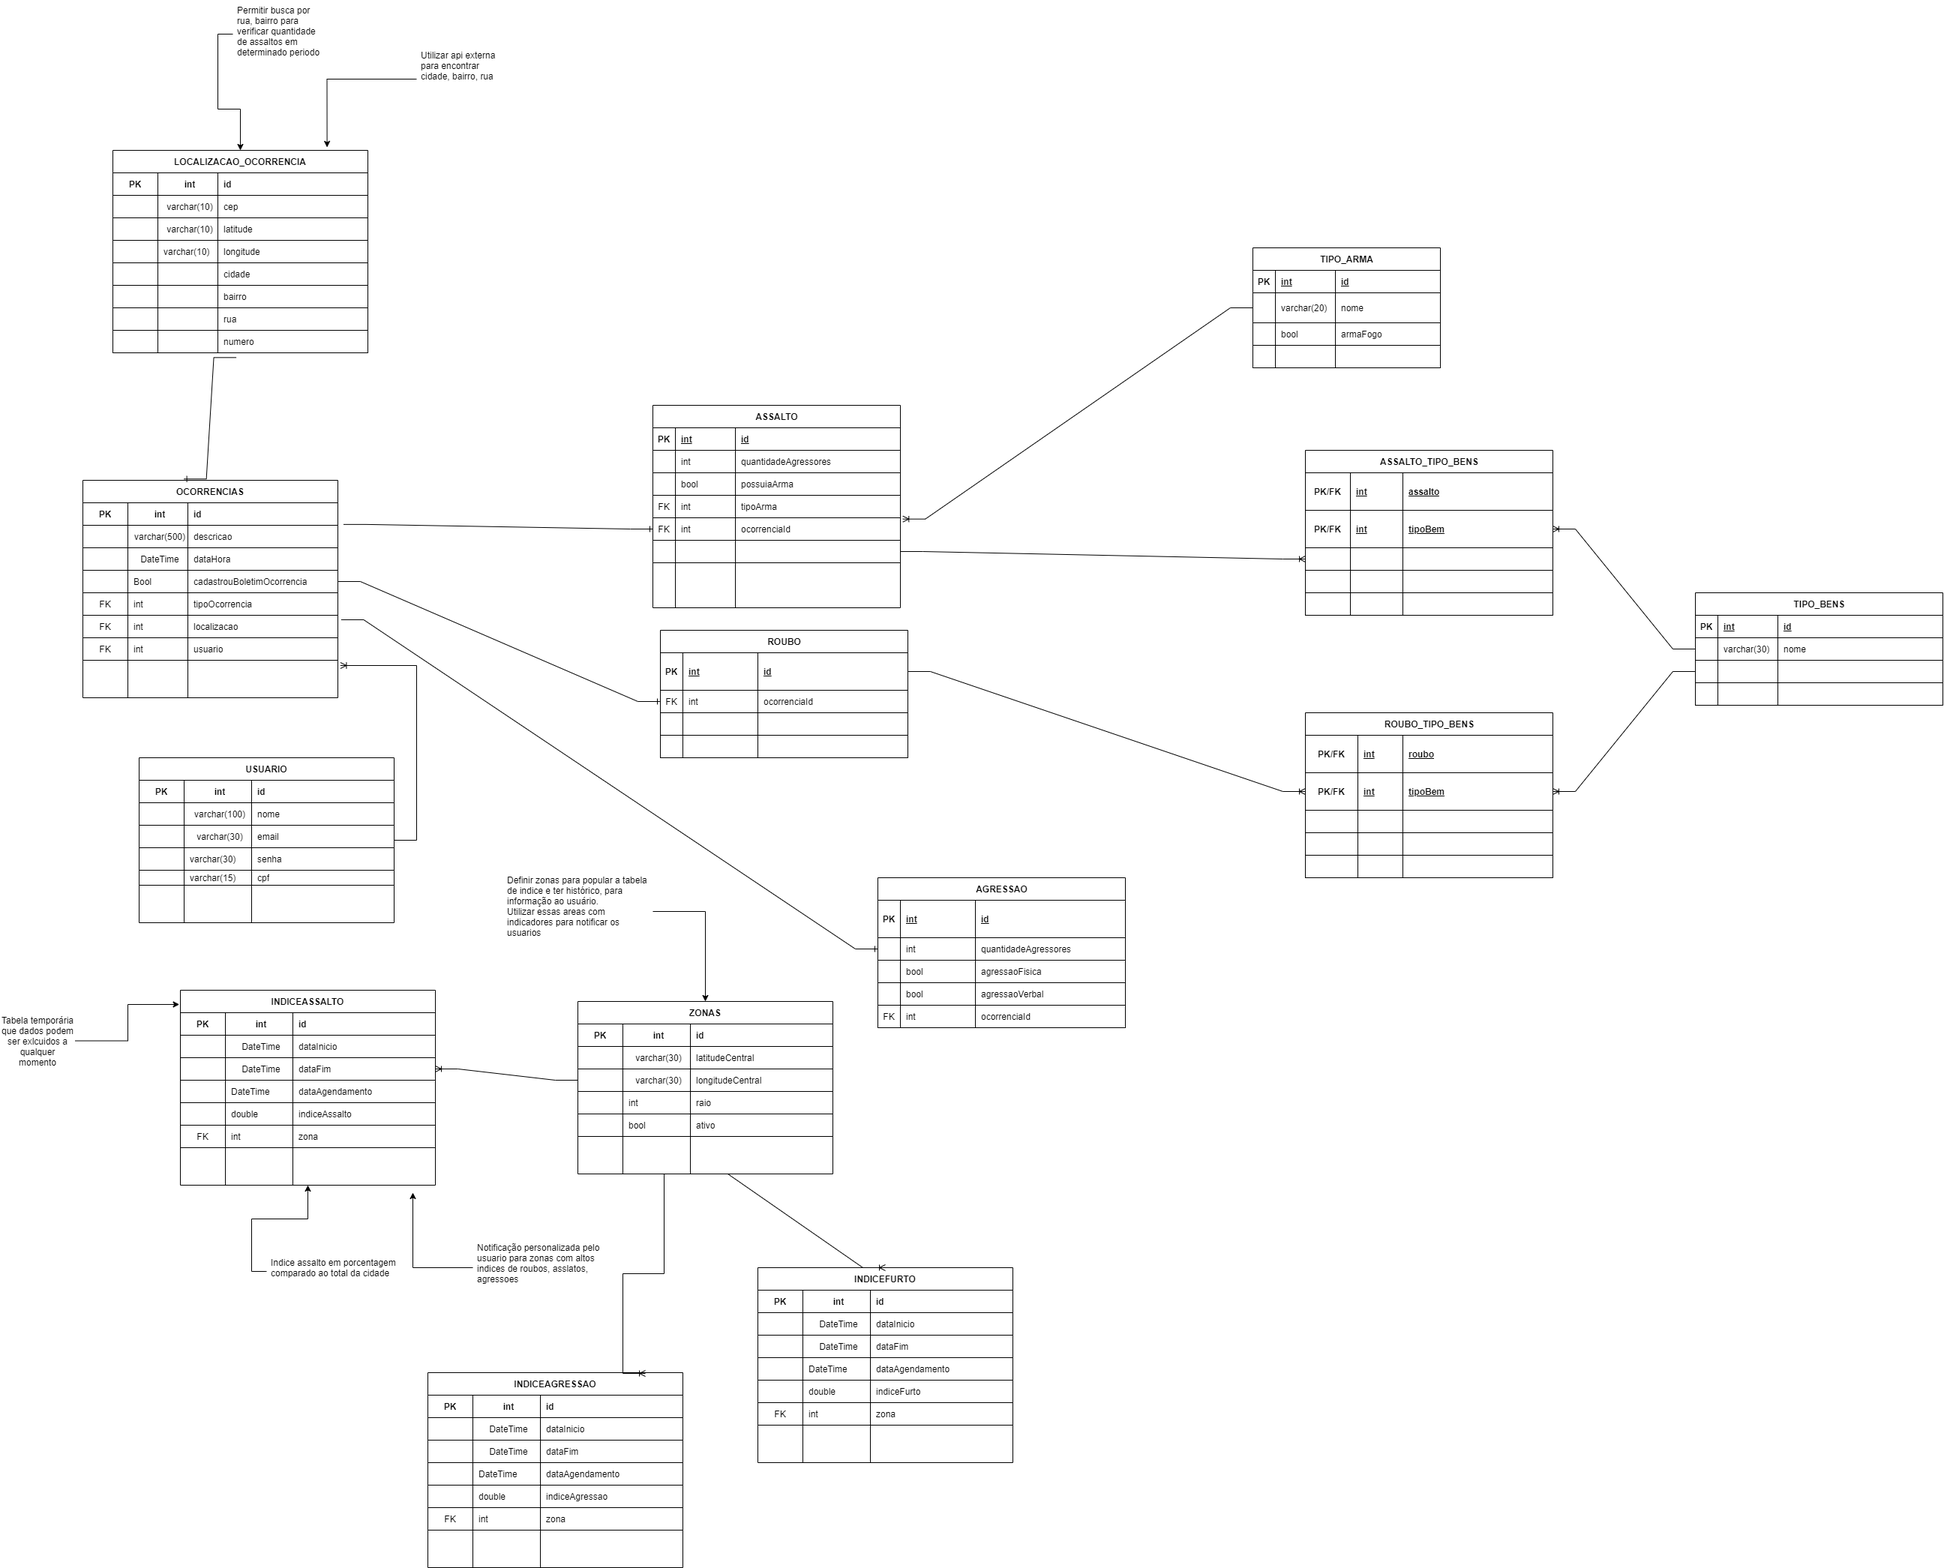
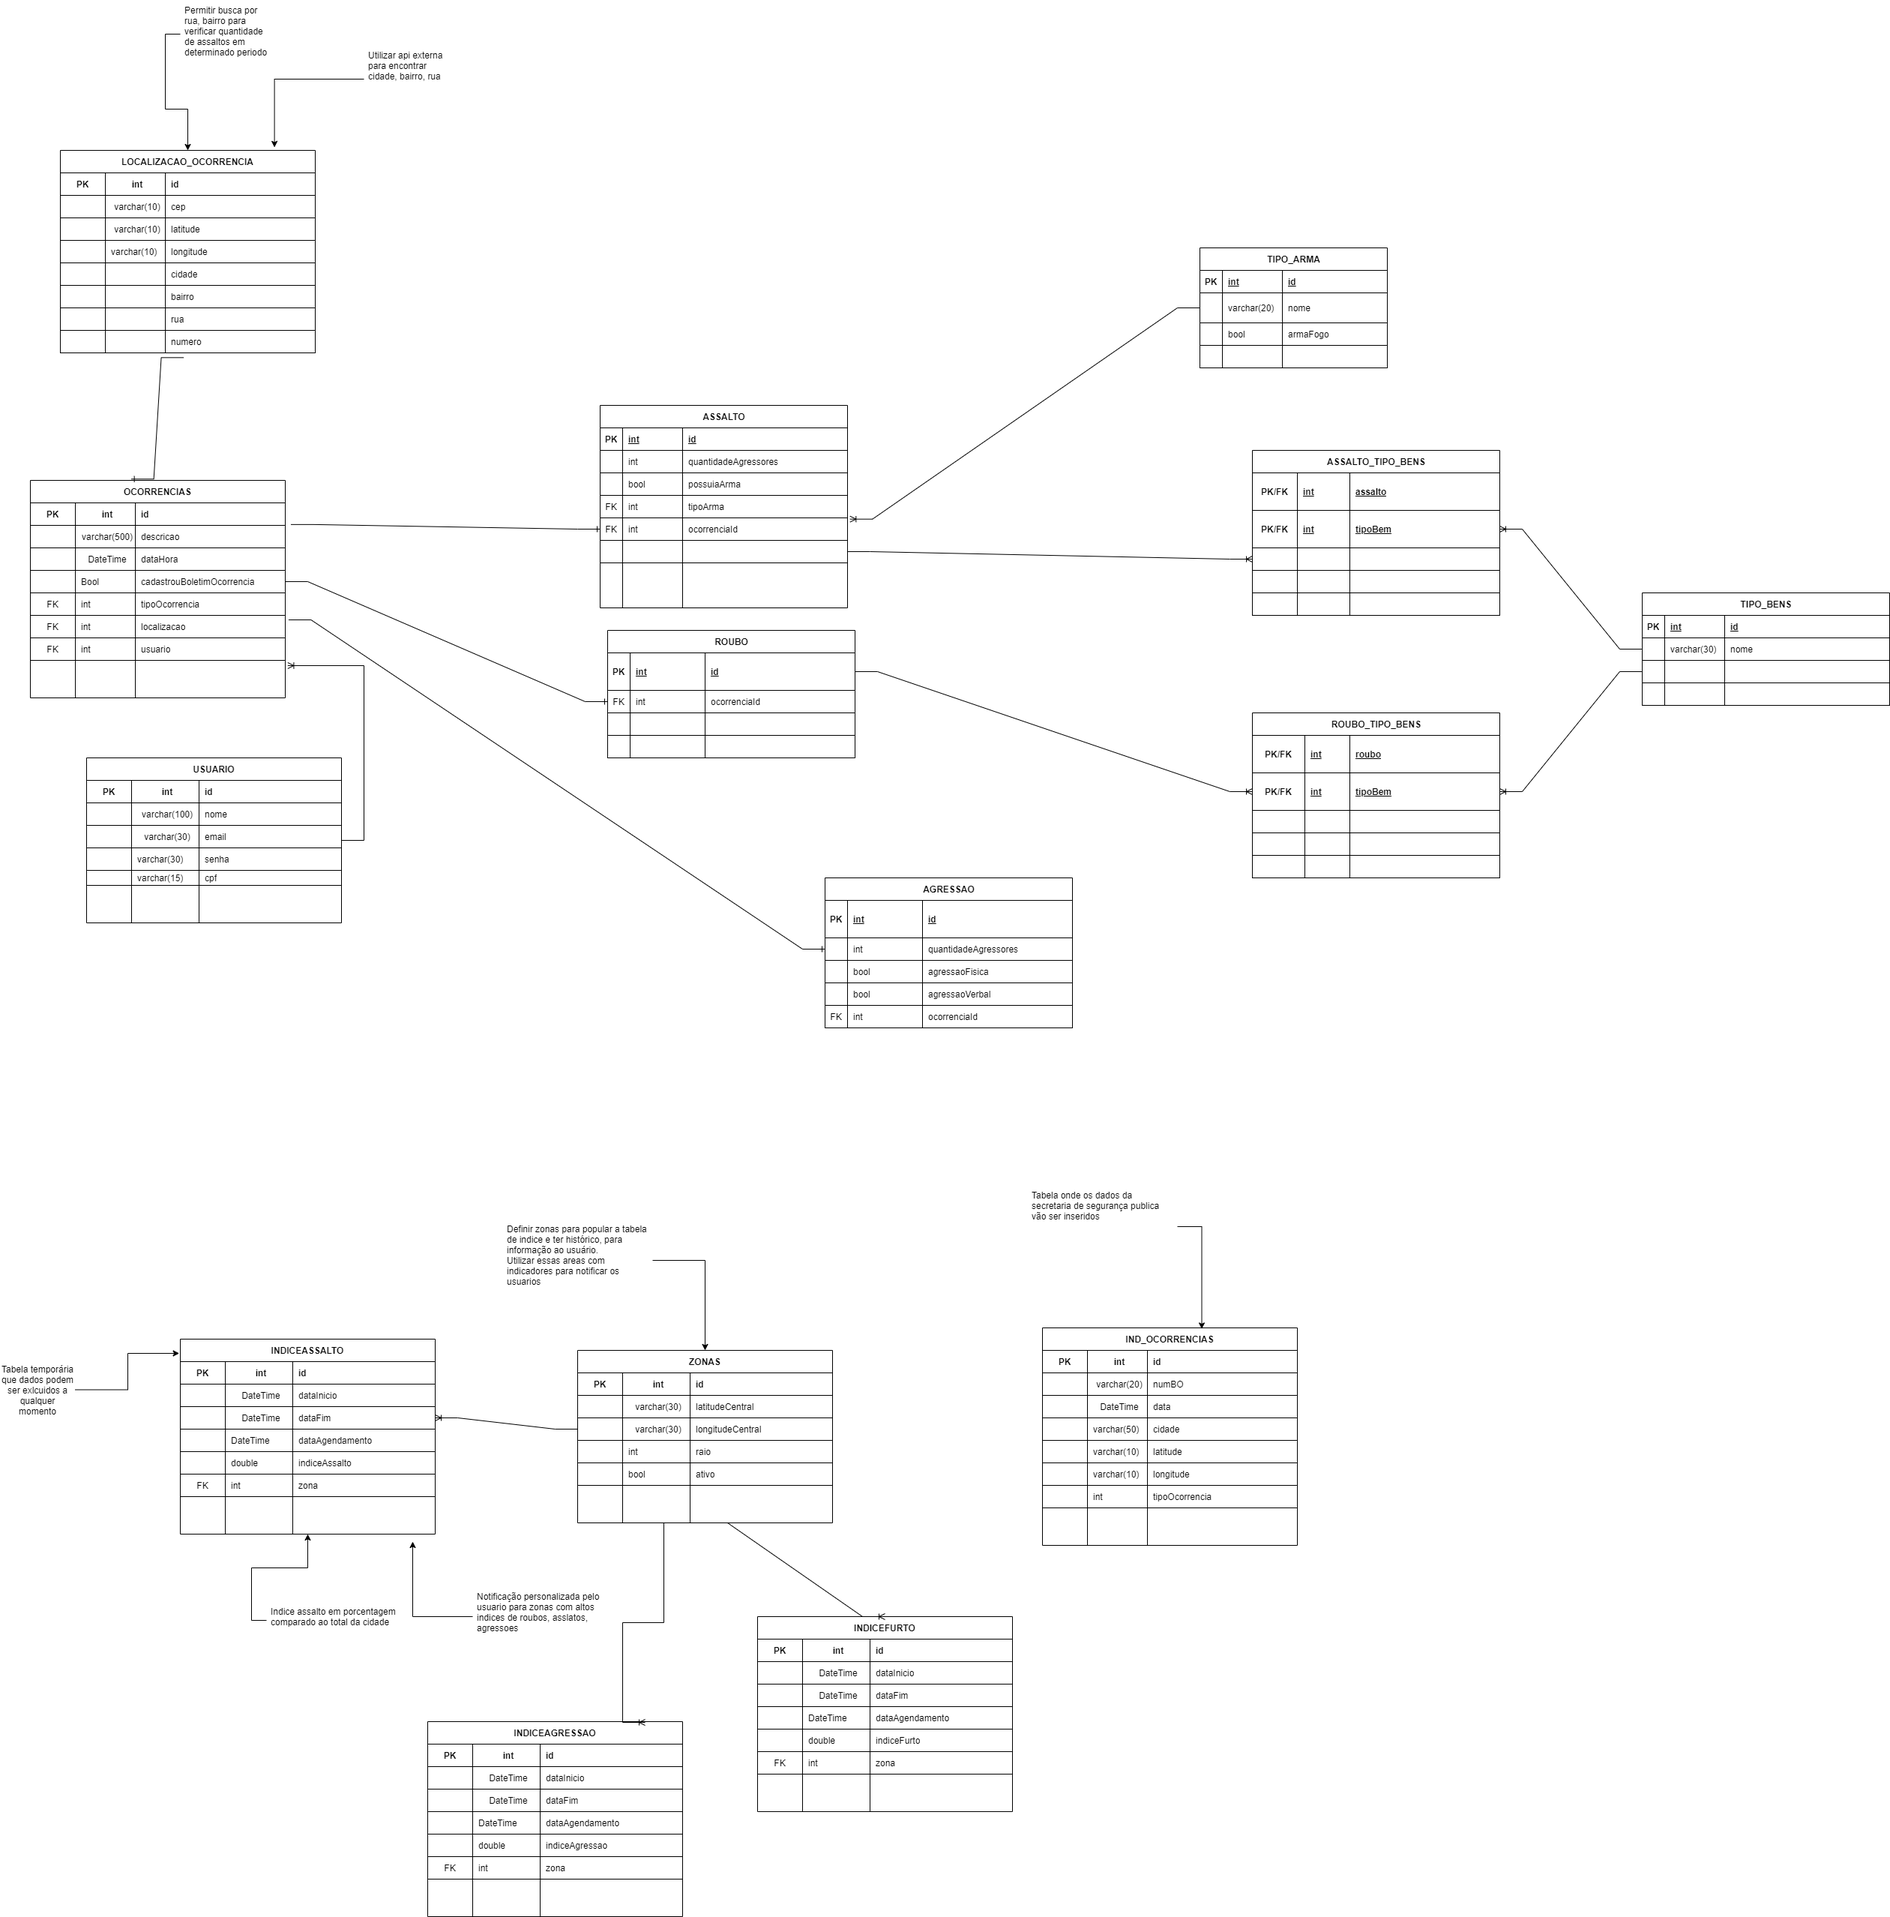
Importação de dados da planilha de registros de crimes da SSP

diff --git a/BackEnd/ApiCriminalidade/ApiCriminalidade/Helpers/ExcelHelper.cs b/BackEnd/ApiCriminalidade/ApiCriminalidade/Helpers/ExcelHelper.cs
@@ -1,0 +1,71 @@
+using ExcelDataReader;
+using System.Data;
+using System.Reflection;
+using System.Text;
+
+namespace ApiCriminalidade.Helpers
+{
+    public class ExcelHelper<T> where T : class, new()
+    {
+        private IExcelDataReader _reader;
+
+        public ExcelHelper(IFormFile file)
+        {
+            var stream = file.OpenReadStream();
+
+            Encoding.RegisterProvider(CodePagesEncodingProvider.Instance);
+            if (file.FileName.EndsWith(".csv"))
+            {
+                _reader = ExcelReaderFactory.CreateCsvReader(stream);
+
+            }
+        }
+
+        public List<T> GetValues()
+        {
+            var list = new List<T>();
+
+            var table = ConvertToDataTable();
+
+
+            var properties = typeof(T).GetProperties().ToList();
+            foreach ( var row in table.Rows)
+            {
+
+                var item = CreateItemFromRow<T>((DataRow)row, properties);
+                list.Add(item);
+            }
+
+            return list;
+        }
+
+        private DataTable ConvertToDataTable()
+        {
+            var conf = new ExcelDataSetConfiguration
+            {
+                ConfigureDataTable = a => new ExcelDataTableConfiguration
+                {
+                    UseHeaderRow = true
+                }
+            };
+
+            var dataset = _reader.AsDataSet(conf);
+            return dataset.Tables[0];
+        }
+
+        private T CreateItemFromRow<T>(DataRow row, IList<PropertyInfo> properties) where T : new()
+        {
+            var item = new T();
+
+            foreach (var property in properties)
+            {
+                if (row.Table.Columns.Contains(property.Name))
+                {
+                    property.SetValue(item, row[property.Name] == DBNull.Value ? null : row[property.Name]);
+                }
+            }
+
+            return item;
+        }
+    }
+}

diff --git a/BackEnd/ApiCriminalidade/ApiCriminalidade/Mappers/IndOcorrenciaMapper.cs b/BackEnd/ApiCriminalidade/ApiCriminalidade/Mappers/IndOcorrenciaMapper.cs
@@ -1,0 +1,54 @@
+using ApiCriminalidade.Dtos;
+using ApiCriminalidade.Mappers.Interface;
+using ApiCriminalidade.Models;
+
+namespace ApiCriminalidade.Mappers
+{
+    public class IndOcorrenciaMapper : IIndOcorrenciaMapper
+    {
+        //public TipoArmaDto ToDto(TipoArma entidade)
+        //{
+        //    return new TipoArmaDto
+        //    {
+        //        Id = entidade.Id,
+        //        Descricao = entidade.Descricao,
+        //        ArmaDeFogo = entidade.ArmaDeFogo
+        //    };
+        //}
+
+        public IndOcorrencia ToEntidade(IndOcorrenciaForm form)
+        {
+            var dataHora = string.Concat(form.Data_Ocorrencia_Bo," ", form.Hora_ocorrencia_Bo);
+
+            DateTime.TryParse(dataHora, out var data);
+
+            var tipo = RetornarTipoOcorrencia(form.Rubrica);
+
+
+            return new IndOcorrencia
+            {
+                NumBo = form.Num_Bo,
+                Cidade = form.Cidade,
+                Latitude = form.Latitude,
+                Longitude = form.Longitude,
+                Tipo = tipo,
+                DataOcorrencia = data
+            };
+        }
+
+        private IndTipoOcorrencia RetornarTipoOcorrencia(string descricao)
+        {
+            if (descricao.Contains("Furto (art. 155)"))
+            {
+                return IndTipoOcorrencia.Furto;
+            }
+            else if (descricao.Contains("Roubo (art. 157)"))
+            {
+                return IndTipoOcorrencia.Roubo;
+            }
+
+            return IndTipoOcorrencia.NaoEncontrado;
+
+        }
+    }
+}

diff --git a/BackEnd/ApiCriminalidade/ApiCriminalidade/Services/IndOcorrenciaService.cs b/BackEnd/ApiCriminalidade/ApiCriminalidade/Services/IndOcorrenciaService.cs
@@ -1,0 +1,45 @@
+using ApiCriminalidade.Dtos;
+using ApiCriminalidade.Helpers;
+using ApiCriminalidade.Mappers.Interface;
+using ApiCriminalidade.Models;
+using ApiCriminalidade.Repositorys.Interfaces;
+using ApiCriminalidade.Services.Interfaces;
+
+namespace ApiCriminalidade.Services
+{
+    public class IndOcorrenciaService : IIndOcorrenciaService
+    {
+        private readonly IIndOcorrenciaRepository _indOcorrenciaRepository;
+
+        private readonly IIndOcorrenciaMapper _mapper;
+
+        public IndOcorrenciaService(IIndOcorrenciaRepository indOcorrenciaRepository, IIndOcorrenciaMapper mapper)
+        {
+            _indOcorrenciaRepository = indOcorrenciaRepository;
+            _mapper = mapper;
+        }
+
+        public IEnumerable<IndOcorrencia> Add(IFormFile file)
+        {
+            var produtos = new List<IndOcorrencia>();
+
+            var excel = new ExcelHelper<IndOcorrenciaForm>(file);
+
+            var produtosForm = excel.GetValues();
+
+            foreach (var entidade in produtosForm.Where(a => !string.IsNullOrEmpty(a.Rubrica) ))
+            {
+                produtos.Add(_mapper.ToEntidade(entidade));
+            }
+
+            
+
+            return _indOcorrenciaRepository.Add(produtos);
+        }
+
+        public IEnumerable<IndOcorrencia> GetAll()
+        {
+            return _indOcorrenciaRepository.GetAll();
+        }
+    }
+}

diff --git a/BackEnd/ApiCriminalidade/ApiCriminalidade/Program.cs b/BackEnd/ApiCriminalidade/ApiCriminalidade/Program.cs
@@ -28,6 +28,7 @@ builder.Services.AddScoped<IOcorrenciaService, OcorrenciaService>();
 builder.Services.AddScoped<IAssaltoService, AssaltoService>();
 builder.Services.AddScoped<ITipoArmaService, TipoArmaService>();
 builder.Services.AddScoped<IRouboService, RouboService>();
+builder.Services.AddScoped<IIndOcorrenciaService, IndOcorrenciaService>();
 
 //Repositorys
 builder.Services.AddScoped<IOcorrenciaRepository, OcorrenciaRepository>();
@@ -35,13 +36,14 @@ builder.Services.AddScoped<IAssaltoRepository, AssaltoRepository>();
 builder.Services.AddScoped<ITipoArmaRepository, TipoArmaRepository>();
 builder.Services.AddScoped<IRouboRepository, RouboRepository>();
 builder.Services.AddScoped<ITipoBemRepository, TipoBemRepository>();
+builder.Services.AddScoped<IIndOcorrenciaRepository, IndOcorrenciaRepository>();
 
 //Mappers
 builder.Services.AddScoped<IOcorrenciaMapper, OcorrenciaMapper>();
 builder.Services.AddScoped<IAssaltoMapper, AssaltoMapper>();
 builder.Services.AddScoped<ITipoArmaMapper, TipoArmaMapper>();
 builder.Services.AddScoped<IRouboMapper, RouboMapper>();
-
+builder.Services.AddScoped<IIndOcorrenciaMapper, IndOcorrenciaMapper>();
 
 var app = builder.Build();
 

diff --git a/BackEnd/ApiCriminalidade/ApiCriminalidade/Controllers/IndOcorrenciaController.cs b/BackEnd/ApiCriminalidade/ApiCriminalidade/Controllers/IndOcorrenciaController.cs
@@ -1,0 +1,33 @@
+using ApiCriminalidade.Models;
+using ApiCriminalidade.Services.Interfaces;
+using Microsoft.AspNetCore.Mvc;
+
+namespace ApiCriminalidade.Controllers
+{
+    [ApiController]
+    [Route("[controller]")]
+    public class IndOcorrenciaController : ControllerBase
+    {
+        private readonly IIndOcorrenciaService _indOcorrenciaService;
+
+        public IndOcorrenciaController(IIndOcorrenciaService indOcorrenciaService)
+        {
+            _indOcorrenciaService = indOcorrenciaService;
+        }
+
+        [HttpPost]
+        public ActionResult<IEnumerable<IndOcorrencia>> Add(IFormFile file)
+        {
+            
+            return Ok(_indOcorrenciaService.Add(file));
+        }
+
+        [HttpGet]
+        public ActionResult<IEnumerable<IndOcorrencia>> GetAll()
+        {
+
+            return Ok(_indOcorrenciaService.GetAll());
+        }
+
+    }
+}

diff --git a/BackEnd/ApiCriminalidade/ApiCriminalidade/Repositorys/IndOcorrenciaRepository.cs b/BackEnd/ApiCriminalidade/ApiCriminalidade/Repositorys/IndOcorrenciaRepository.cs
@@ -1,0 +1,28 @@
+using ApiCriminalidade.Context;
+using ApiCriminalidade.Models;
+using ApiCriminalidade.Repositorys.Interfaces;
+
+namespace ApiCriminalidade.Repositorys
+{
+    public class IndOcorrenciaRepository : IIndOcorrenciaRepository
+    {
+        private readonly AppDbContext _context;
+
+        public IndOcorrenciaRepository(AppDbContext context)
+        {
+            _context = context;
+        }
+
+        public IEnumerable<IndOcorrencia> Add(List<IndOcorrencia> indOcorrencias)
+        {
+            _context.BulkInsert(indOcorrencias);
+            return indOcorrencias;
+        }
+
+        public IEnumerable<IndOcorrencia> GetAll()
+        {
+            
+            return _context.IndOcorrencias;
+        }
+    }
+}

diff --git a/BackEnd/ApiCriminalidade/ApiCriminalidade/Dtos/IndOcorrenciaForm.cs b/BackEnd/ApiCriminalidade/ApiCriminalidade/Dtos/IndOcorrenciaForm.cs
@@ -1,0 +1,19 @@
+namespace ApiCriminalidade.Dtos
+{
+    public class IndOcorrenciaForm
+    {
+        public string Num_Bo { get; set; }
+
+        public string Data_Ocorrencia_Bo { get; set; }
+
+        public string Hora_ocorrencia_Bo { get; set; }
+
+        public string Rubrica { get; set; }
+
+        public string Cidade { get; set; }
+
+        public string Latitude { get; set; }
+
+        public string Longitude { get; set; }
+    }
+}

diff --git a/BackEnd/ApiCriminalidade/ApiCriminalidade/Models/IndOcorrencia.cs b/BackEnd/ApiCriminalidade/ApiCriminalidade/Models/IndOcorrencia.cs
@@ -1,0 +1,20 @@
+namespace ApiCriminalidade.Models
+{
+    public class IndOcorrencia
+    {
+        public int Id { get; set; }
+
+        public string NumBo { get; set; }
+
+        public DateTime DataOcorrencia { get; set; }
+
+        public IndTipoOcorrencia Tipo { get; set; }
+
+        public string Cidade { get; set; }
+
+        public string Latitude { get; set; }
+
+        public string Longitude { get; set; }
+
+    }
+}

diff --git a/BackEnd/ApiCriminalidade/ApiCriminalidade/Mappers/Interface/IIndOcorrenciaMapper.cs b/BackEnd/ApiCriminalidade/ApiCriminalidade/Mappers/Interface/IIndOcorrenciaMapper.cs
@@ -1,0 +1,12 @@
+using ApiCriminalidade.Dtos;
+using ApiCriminalidade.Models;
+
+namespace ApiCriminalidade.Mappers.Interface
+{
+    public interface IIndOcorrenciaMapper
+    {
+        //TipoArmaDto ToDto(TipoArma Entidade);
+
+        IndOcorrencia ToEntidade(IndOcorrenciaForm form);
+    }
+}

diff --git a/BackEnd/ApiCriminalidade/ApiCriminalidade/Repositorys/Interfaces/IIndOcorrenciaRepository.cs b/BackEnd/ApiCriminalidade/ApiCriminalidade/Repositorys/Interfaces/IIndOcorrenciaRepository.cs
@@ -1,0 +1,11 @@
+using ApiCriminalidade.Models;
+
+namespace ApiCriminalidade.Repositorys.Interfaces
+{
+    public interface IIndOcorrenciaRepository
+    {
+        IEnumerable<IndOcorrencia> Add(List<IndOcorrencia> indOcorrencias);
+
+        IEnumerable<IndOcorrencia> GetAll();
+    }
+}

diff --git a/BackEnd/ApiCriminalidade/ApiCriminalidade/Services/Interfaces/IIndOcorrenciaService.cs b/BackEnd/ApiCriminalidade/ApiCriminalidade/Services/Interfaces/IIndOcorrenciaService.cs
@@ -1,0 +1,11 @@
+using ApiCriminalidade.Models;
+
+namespace ApiCriminalidade.Services.Interfaces
+{
+    public interface IIndOcorrenciaService
+    {
+        IEnumerable<IndOcorrencia> Add(IFormFile file);
+        IEnumerable<IndOcorrencia> GetAll();
+
+    }
+}

diff --git a/BackEnd/ApiCriminalidade/ApiCriminalidade/Context/AppDbContext.cs b/BackEnd/ApiCriminalidade/ApiCriminalidade/Context/AppDbContext.cs
@@ -33,5 +33,7 @@ namespace ApiCriminalidade.Context
         public DbSet<AssaltoTipoBem> AssaltosTipobens { get; set; }
 
         public DbSet<RouboTipoBem> RoubosTipobens { get; set; }
+
+        public DbSet<IndOcorrencia> IndOcorrencias { get; set; }
     }
 }
